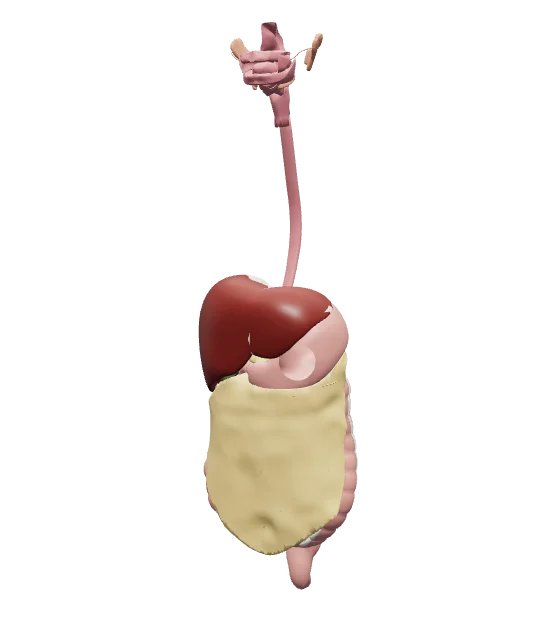
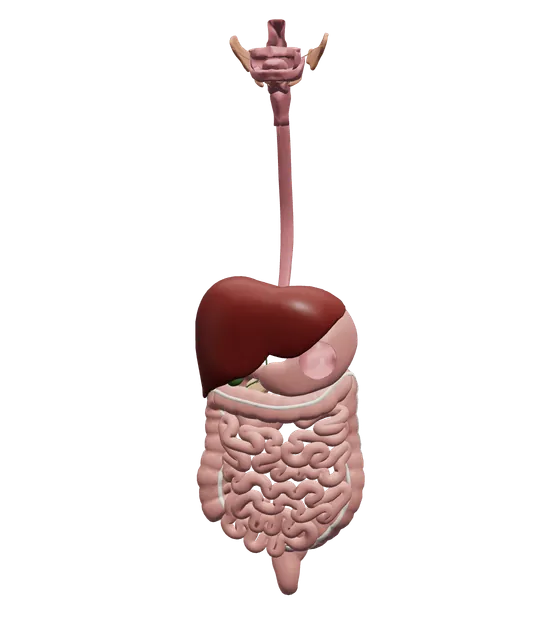
Landing: digestive card redrawn without the yellow sheets on the stomach (2026-11-08)
The card dated from before the greater omentum was left out of the digestive layer, so a
yellow apron hung from the stomach. It is now a build:hero shot rendered from the current
layer, with the lesser omentum, mesocolon and meso-appendix hidden as the pleura is on the
respiratory card. The explorer still shows those peritoneal sheets.

Changed region(s): [[0.3339, 0.0312, 0.6679, 0.9375]]

diff --git a/README.md b/README.md
@@ -127,7 +127,7 @@ Password recovery is teacher-managed. The public recovery form shows the configu
 
 The landing page shows only real information. The number of active body systems comes from `api/config.php` and stay hidden when the API returns nothing or is unreachable. The feature figures are simplified drawings of the real student pages with generic labels.
 
-The hero shows a fan of body-system cards (click a side card, use the arrow keys, swipe or type in the header search to bring one to the front; hovering lifts a card). The card and floating images in `assets/img/hero/` are still renders of the layered models in `system_model/layers/`, made with the explorer's own viewer and materials on a transparent background, so no 3D loads on the landing page. The two reproductive systems are left out of the hero. Re-render the images if those models or the tissue colours change: `npm run build:hero` in `landing-src/` redraws the Respiratory and Urinary cards and the floating kidney through `landing-src/render/hero.html` (pass shot names to redraw only some, or `--out <folder>` to compare first).
+The hero shows a fan of body-system cards (click a side card, use the arrow keys, swipe or type in the header search to bring one to the front; hovering lifts a card). The card and floating images in `assets/img/hero/` are still renders of the layered models in `system_model/layers/`, made with the explorer's own viewer and materials on a transparent background, so no 3D loads on the landing page. The two reproductive systems are left out of the hero. Re-render the images if those models or the tissue colours change: `npm run build:hero` in `landing-src/` redraws the Respiratory, Urinary and Digestive cards (the Digestive card without the yellow peritoneal sheets) and the floating kidney through `landing-src/render/hero.html` (pass shot names to redraw only some, or `--out <folder>` to compare first).
 
 ### Building the public pages
 
